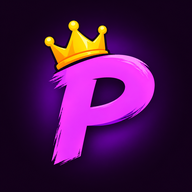
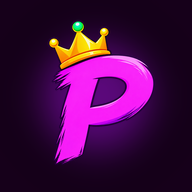
לוגו מעודכן: P שקוף עם יהלום ירוק בכותרת, אייקונים ותמונות
Claude-Session: https://claude.ai/code/session_014vCVXzjRpGYNB6RpuxoR6w

Changed region(s): [[0.1562, 0.0938, 0.8125, 0.875]]

diff --git a/index.html b/index.html
@@ -608,12 +608,16 @@ body.shot .shothd,.shothd{border-bottom:0;padding:0;margin:0 0 6px;font-size:12p
 .gwsp li button b{font-size:16px}.gwsp li button[aria-current=true]{background:var(--card);box-shadow:inset -4px 0 0 #1faa59}
 .gwl{font-size:13px;color:var(--soft)}.gwl.live{color:#e90052;font-weight:800}
 @media (prefers-reduced-motion:reduce){.gwsb,.gwsp{transition:none}}
+.blogo,.blogo[width]{width:auto!important;height:38px!important;border-radius:0!important;box-shadow:none!important;background:none!important;object-fit:contain;filter:drop-shadow(0 1px 2px rgba(55,0,60,.25))}
+@media(max-width:700px){.blogo,.blogo[width]{height:36px!important}}
+.hhd img{width:auto;height:56px;border-radius:0;box-shadow:none;object-fit:contain}
+.splash img{width:auto;height:96px;border-radius:0;box-shadow:none;object-fit:contain}
 </style>
 </head>
 <body class="shot">
 <header class="app band" id="apphd"><div class="in">
   <div class="hrow">
-    <button type="button" class="ib hback" id="hback" aria-label="חזרה" hidden><svg viewBox="0 0 24 24" fill="none" stroke="currentColor" stroke-width="2.5" stroke-linecap="round" stroke-linejoin="round"><path d="M5 12h14M13 6l6 6-6 6"/></svg></button><a class="brand" href="#" aria-label="פסיכו פאנטזי, לדף הבית"><img class="blogo" src="assets/logo.jpg" alt="" width="36" height="36"><span class="btx"><b>פסיכו פאנטזי</b><small>PSYCHOPATHS FPL</small></span></a>
+    <button type="button" class="ib hback" id="hback" aria-label="חזרה" hidden><svg viewBox="0 0 24 24" fill="none" stroke="currentColor" stroke-width="2.5" stroke-linecap="round" stroke-linejoin="round"><path d="M5 12h14M13 6l6 6-6 6"/></svg></button><a class="brand" href="#" aria-label="פסיכו פאנטזי, לדף הבית"><img class="blogo" src="assets/mark.png" alt="" width="33" height="36"><span class="btx"><b>פסיכו פאנטזי</b><small>PSYCHOPATHS FPL</small></span></a>
     <div class="gwnav" id="gwnav">
     <button class="ib" id="prev" type="button" aria-label="המחזור הקודם"><svg viewBox="0 0 24 24" fill="none" stroke="currentColor" stroke-width="2.5" stroke-linecap="round"><path d="M9 6l6 6-6 6"/></svg></button>
     <select id="gwsel" aria-label="בחירת מחזור"></select><button type="button" class="gwbtn" id="gwbtn" aria-haspopup="dialog" aria-label="בחירת מחזור"></button>
@@ -630,7 +634,7 @@ body.shot .shothd,.shothd{border-bottom:0;padding:0;margin:0 0 6px;font-size:12p
   <div class="menupop" id="menupop" hidden><span class="pl">מי אני? (לא חובה)</span><div class="mepick" id="mepick" role="group" aria-label="מי אני"></div><div class="melinks" id="melinks" hidden></div><button type="button" class="btn ghost" id="glsb">מילון מונחים</button><button type="button" class="btn ghost inst" id="inst2">הוספה למסך הבית</button><button type="button" class="btn ghost" id="hello2">מה יש באתר?</button><span class="pl">תצוגה</span><div class="seg theme" role="group" aria-label="מצב תצוגה"><button type="button" id="th-light" data-th="light"><svg viewBox="0 0 24 24" fill="none" stroke="currentColor" stroke-width="2" stroke-linecap="round"><circle cx="12" cy="12" r="4.5"/><path d="M12 2v2.5M12 19.5V22M2 12h2.5M19.5 12H22M4.9 4.9l1.8 1.8M17.3 17.3l1.8 1.8M4.9 19.1l1.8-1.8M17.3 6.7l1.8-1.8"/></svg><span class="t">בהיר</span></button><button type="button" id="th-dark" data-th="dark"><svg viewBox="0 0 24 24" fill="none" stroke="currentColor" stroke-width="2" stroke-linejoin="round"><path d="M20 14.5A8 8 0 0 1 9.5 4a8 8 0 1 0 10.5 10.5z"/></svg><span class="t">כהה</span></button></div></div>
   <span class="sr" id="issue"></span>
 </div></header>
-<main id="view"><div class="splash"><img src="assets/logo.jpg" alt="" width="88" height="88"><b>פסיכו פאנטזי</b><span>טוען…</span></div></main><div class="offl" id="offl" hidden></div><div class="ptr" id="ptr" aria-hidden="true"><svg viewBox="0 0 24 24" fill="none" stroke="currentColor" stroke-width="2.4" stroke-linecap="round" stroke-linejoin="round"><path d="M20 12a8 8 0 1 1-2.3-5.7M20 4v5h-5"/></svg></div>
+<main id="view"><div class="splash"><img src="assets/mark.png" alt="" width="80" height="88"><b>פסיכו פאנטזי</b><span>טוען…</span></div></main><div class="offl" id="offl" hidden></div><div class="ptr" id="ptr" aria-hidden="true"><svg viewBox="0 0 24 24" fill="none" stroke="currentColor" stroke-width="2.4" stroke-linecap="round" stroke-linejoin="round"><path d="M20 12a8 8 0 1 1-2.3-5.7M20 4v5h-5"/></svg></div>
 
 <footer class="band"><div class="in" id="foot"></div></footer>
 <nav class="tabbar" id="tabbar" aria-label="ניווט ראשי">
@@ -2516,7 +2520,7 @@ function installHelp(){if(bip){bip.prompt();bip.userChoice.finally(()=>{bip=null
 /* first visit: what is here (dismissible, shown once) */
 const helloSeen=()=>{try{return localStorage.getItem('pp-hello')==='1';}catch(e){return true;}};
 function helloHtml(){const me=meGet();
-  return `<div class="hello" id="hello" role="region" aria-label="ברוכים הבאים"><button type="button" class="x" id="hellox" aria-label="סגירה">×</button><div class="hhd"><img src="assets/logo.jpg" alt="" width="56" height="56"><b>ברוכים הבאים לפסיכו פאנטזי</b></div>
+  return `<div class="hello" id="hello" role="region" aria-label="ברוכים הבאים"><button type="button" class="x" id="hellox" aria-label="סגירה">×</button><div class="hhd"><img src="assets/mark.png" alt="" width="51" height="56"><b>ברוכים הבאים לפסיכו פאנטזי</b></div>
   <p>האתר של ליגת Psychopaths. הנתונים מתעדכנים לבד מ-FPL: כל חצי שעה בזמן משחקים ולפני הדדליין.</p>
   <ul><li><b>מחזור</b>: לפני הדדליין, תוך כדי (עם לייב בזמן המשחקים) וסיכום. בכל עמוד יש תמונה מוכנה לווטסאפ.</li><li><b>פלאנר</b>: הסגל של כל מאמן, צפי נקודות, המלצות להעברות ולקפטן. מה שתנסו שם נשמר רק אצלכם.</li><li><b>עונה</b>: המרוץ, סיכויי אליפות, יריבויות והארכיון.</li></ul>
   <div class="hme"><span>מי אתה? (לא חובה, אפשר לשנות בתפריט ⋯)</span><div class="mepick">${MG().map(m=>`<button type="button" data-me="${m.slug}" aria-pressed="${m.slug===me}">${esc(m.he)}</button>`).join('')}</div></div>

diff --git a/sw.js b/sw.js
@@ -1,7 +1,7 @@
 /* פסיכו פאנטזי: offline and instant start.
    Pages and data: network first (fresh when online), the last copy when offline.
    Images, icons and fonts: from the cache first. __BUILD__ is replaced at deploy. */
-const V = 'pp-__BUILD__', SHELL = ['./', 'index.html', 'manifest.webmanifest', 'assets/logo.jpg', 'assets/icon-192.png'];
+const V = 'pp-__BUILD__', SHELL = ['./', 'index.html', 'manifest.webmanifest', 'assets/logo.jpg', 'assets/mark.png', 'assets/icon-192.png'];
 self.addEventListener('install', e => { e.waitUntil(caches.open(V).then(c => c.addAll(SHELL)).then(() => self.skipWaiting())); });
 self.addEventListener('activate', e => { e.waitUntil(caches.keys().then(ks => Promise.all(ks.filter(k => k !== V).map(k => caches.delete(k)))).then(() => self.clients.claim())); });
 const fresh = async (req, key) => {
